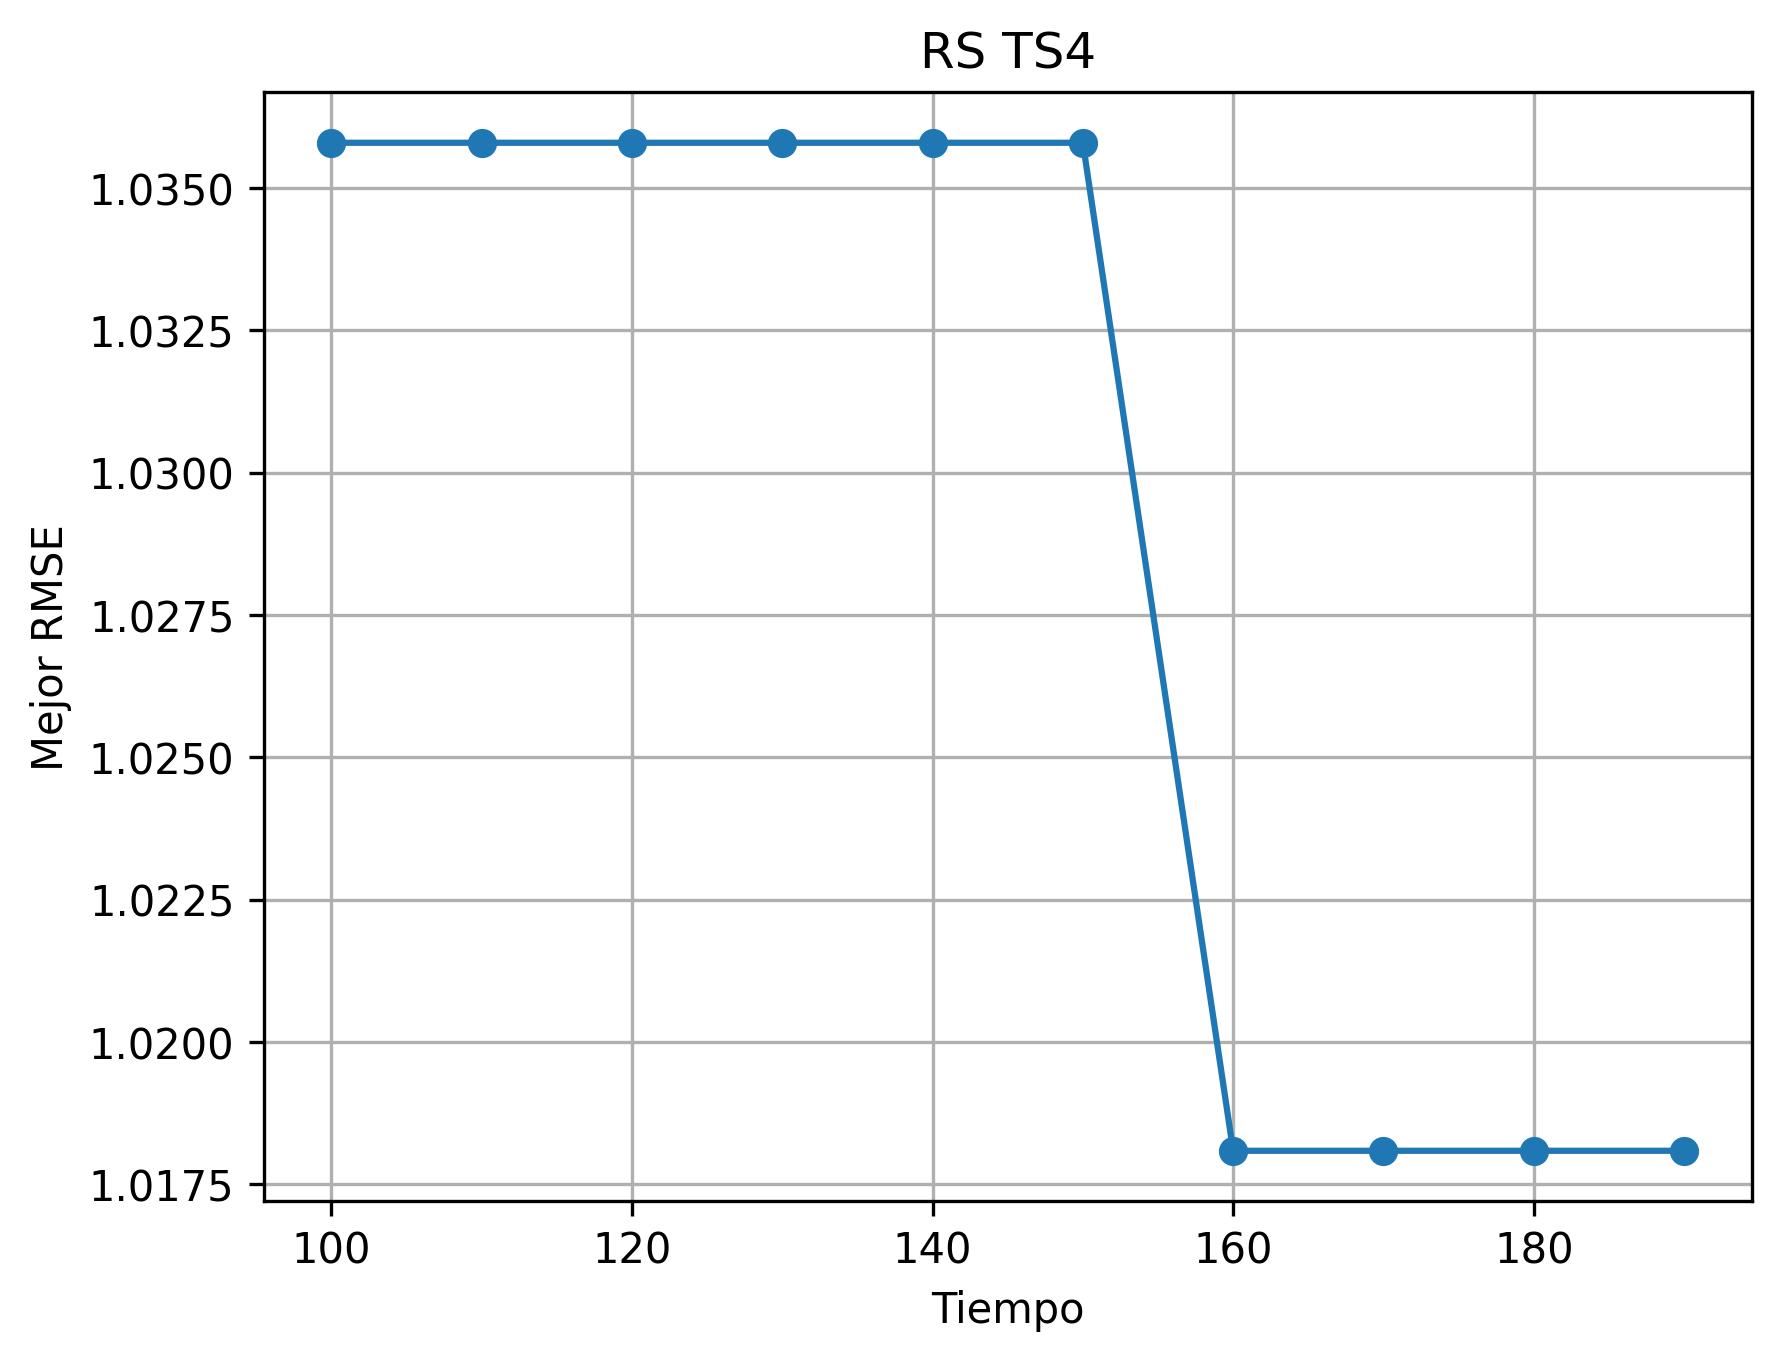
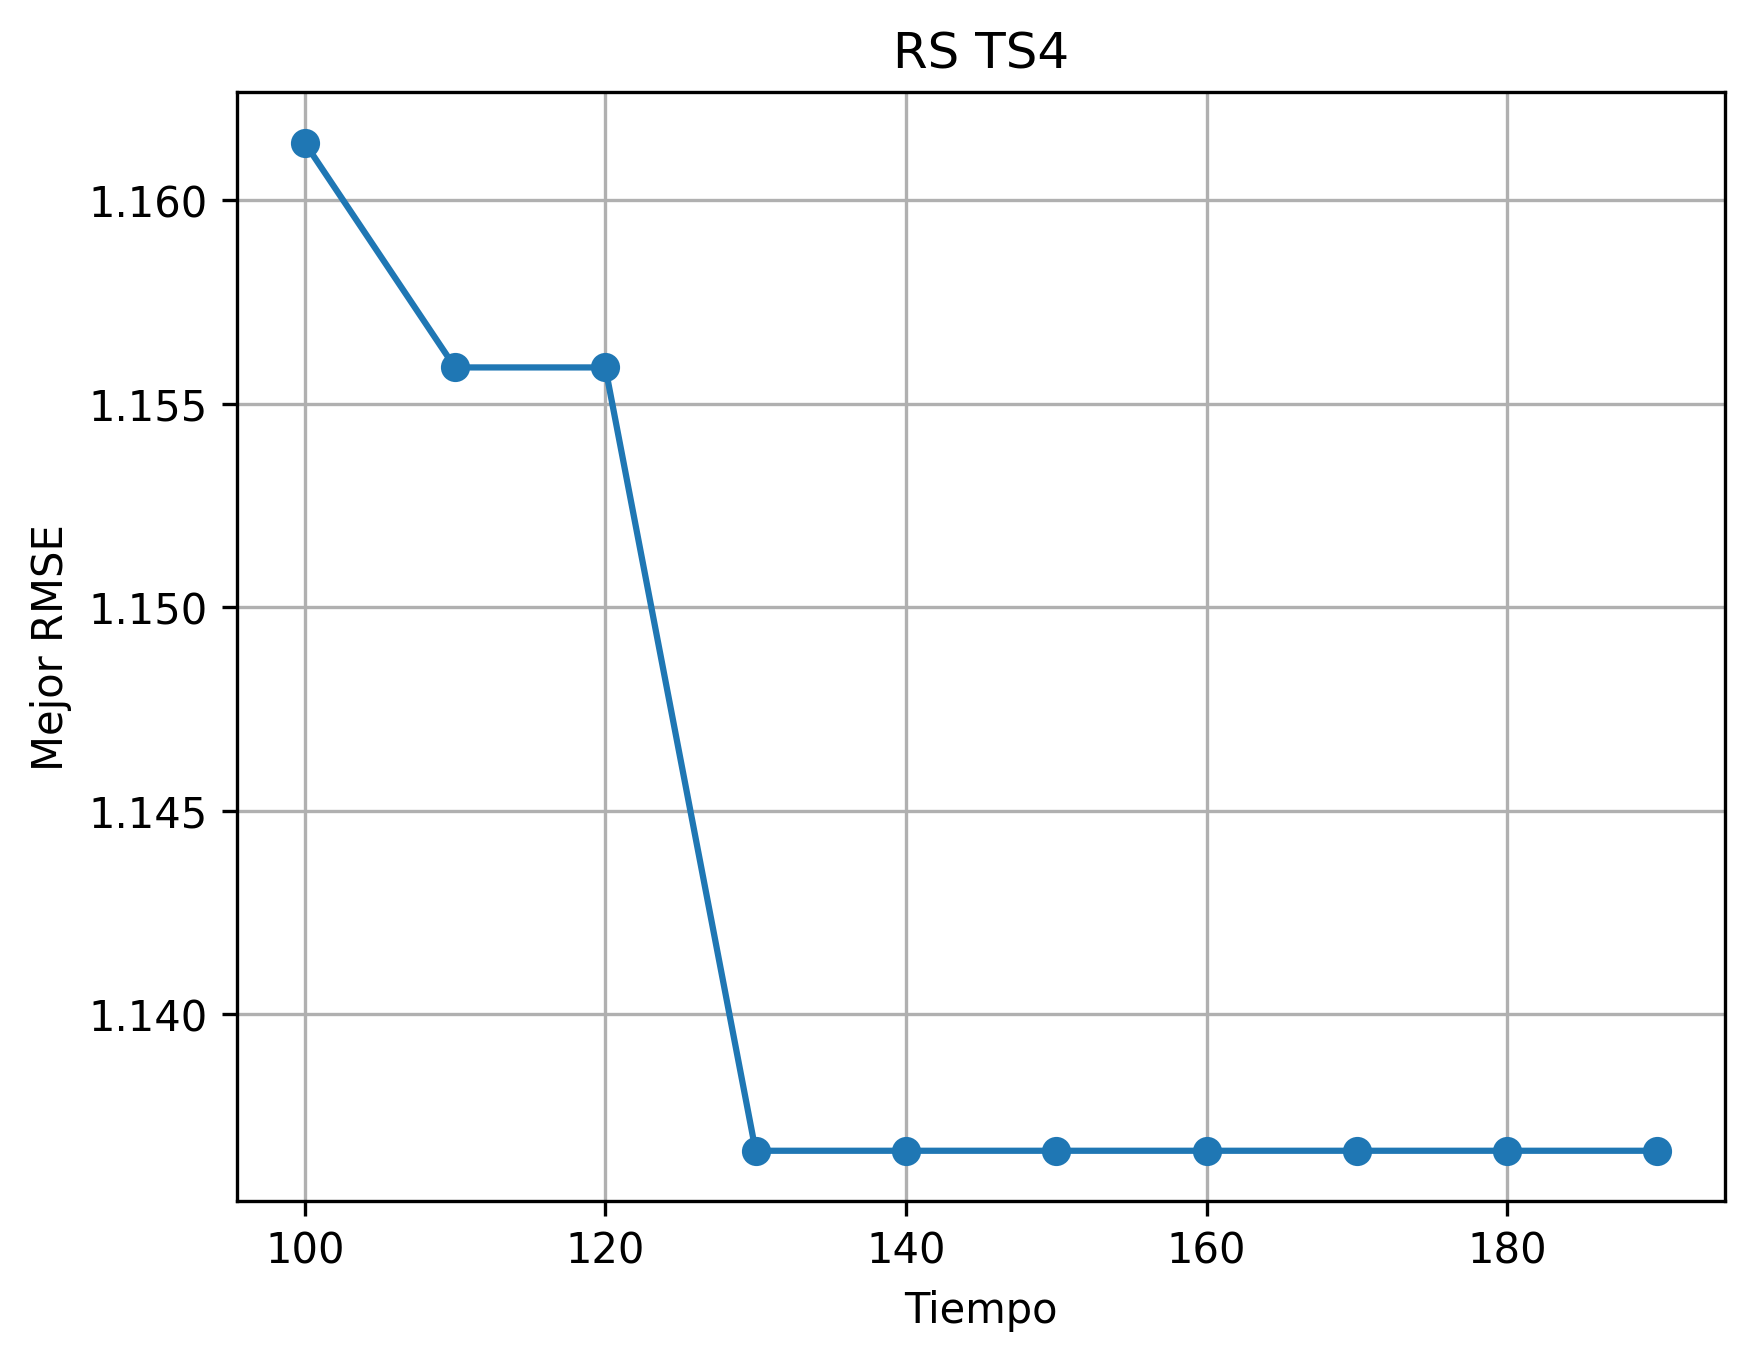
Fix: done the iter issue in the RS

diff --git a/RS/main.py b/RS/main.py
@@ -41,9 +41,9 @@ def main():
         current_k=k_values[TS]
         for i in range(start,end,increment):
             if i==start:
-                best, time, _= randomSearch(current_serie,current_k,i)
+                best, time, _= randomSearch(current_serie,current_k,increment)
             else:
-                best, time, _= randomSearch(current_serie,current_k,i,best)
+                best, time, _= randomSearch(current_serie,current_k,increment,best)
 
 
             iters.append(i)
